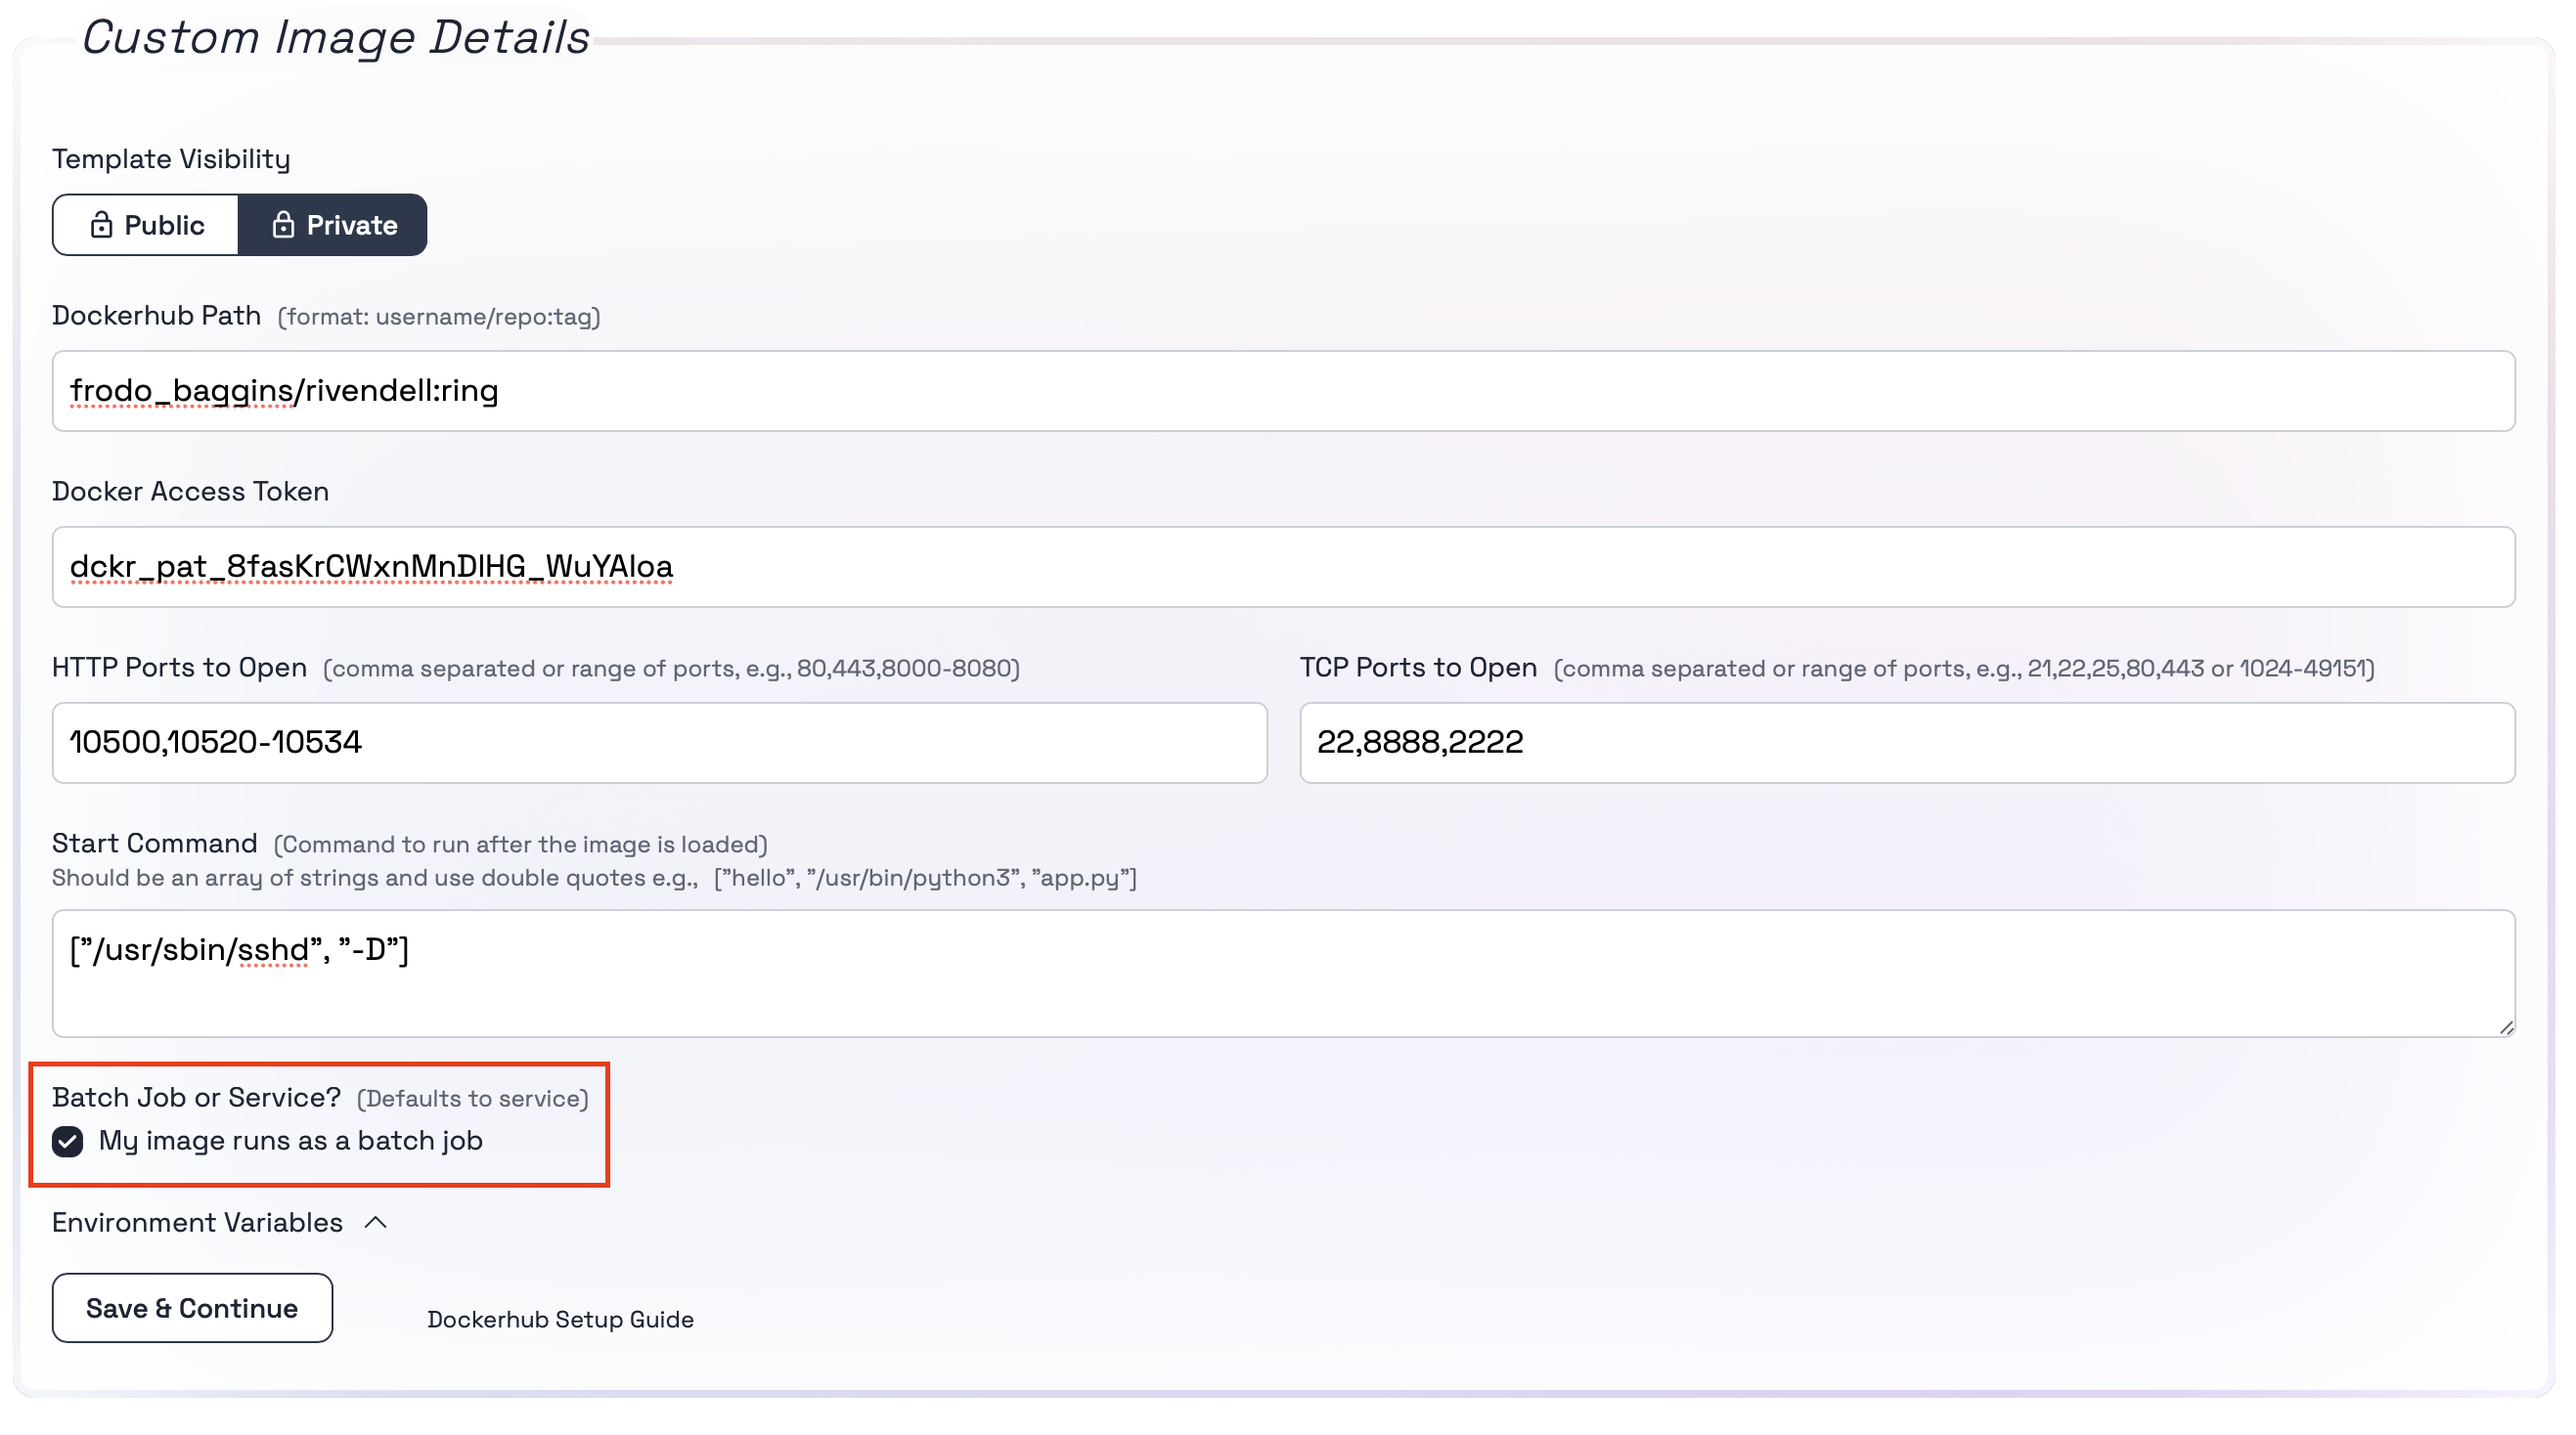
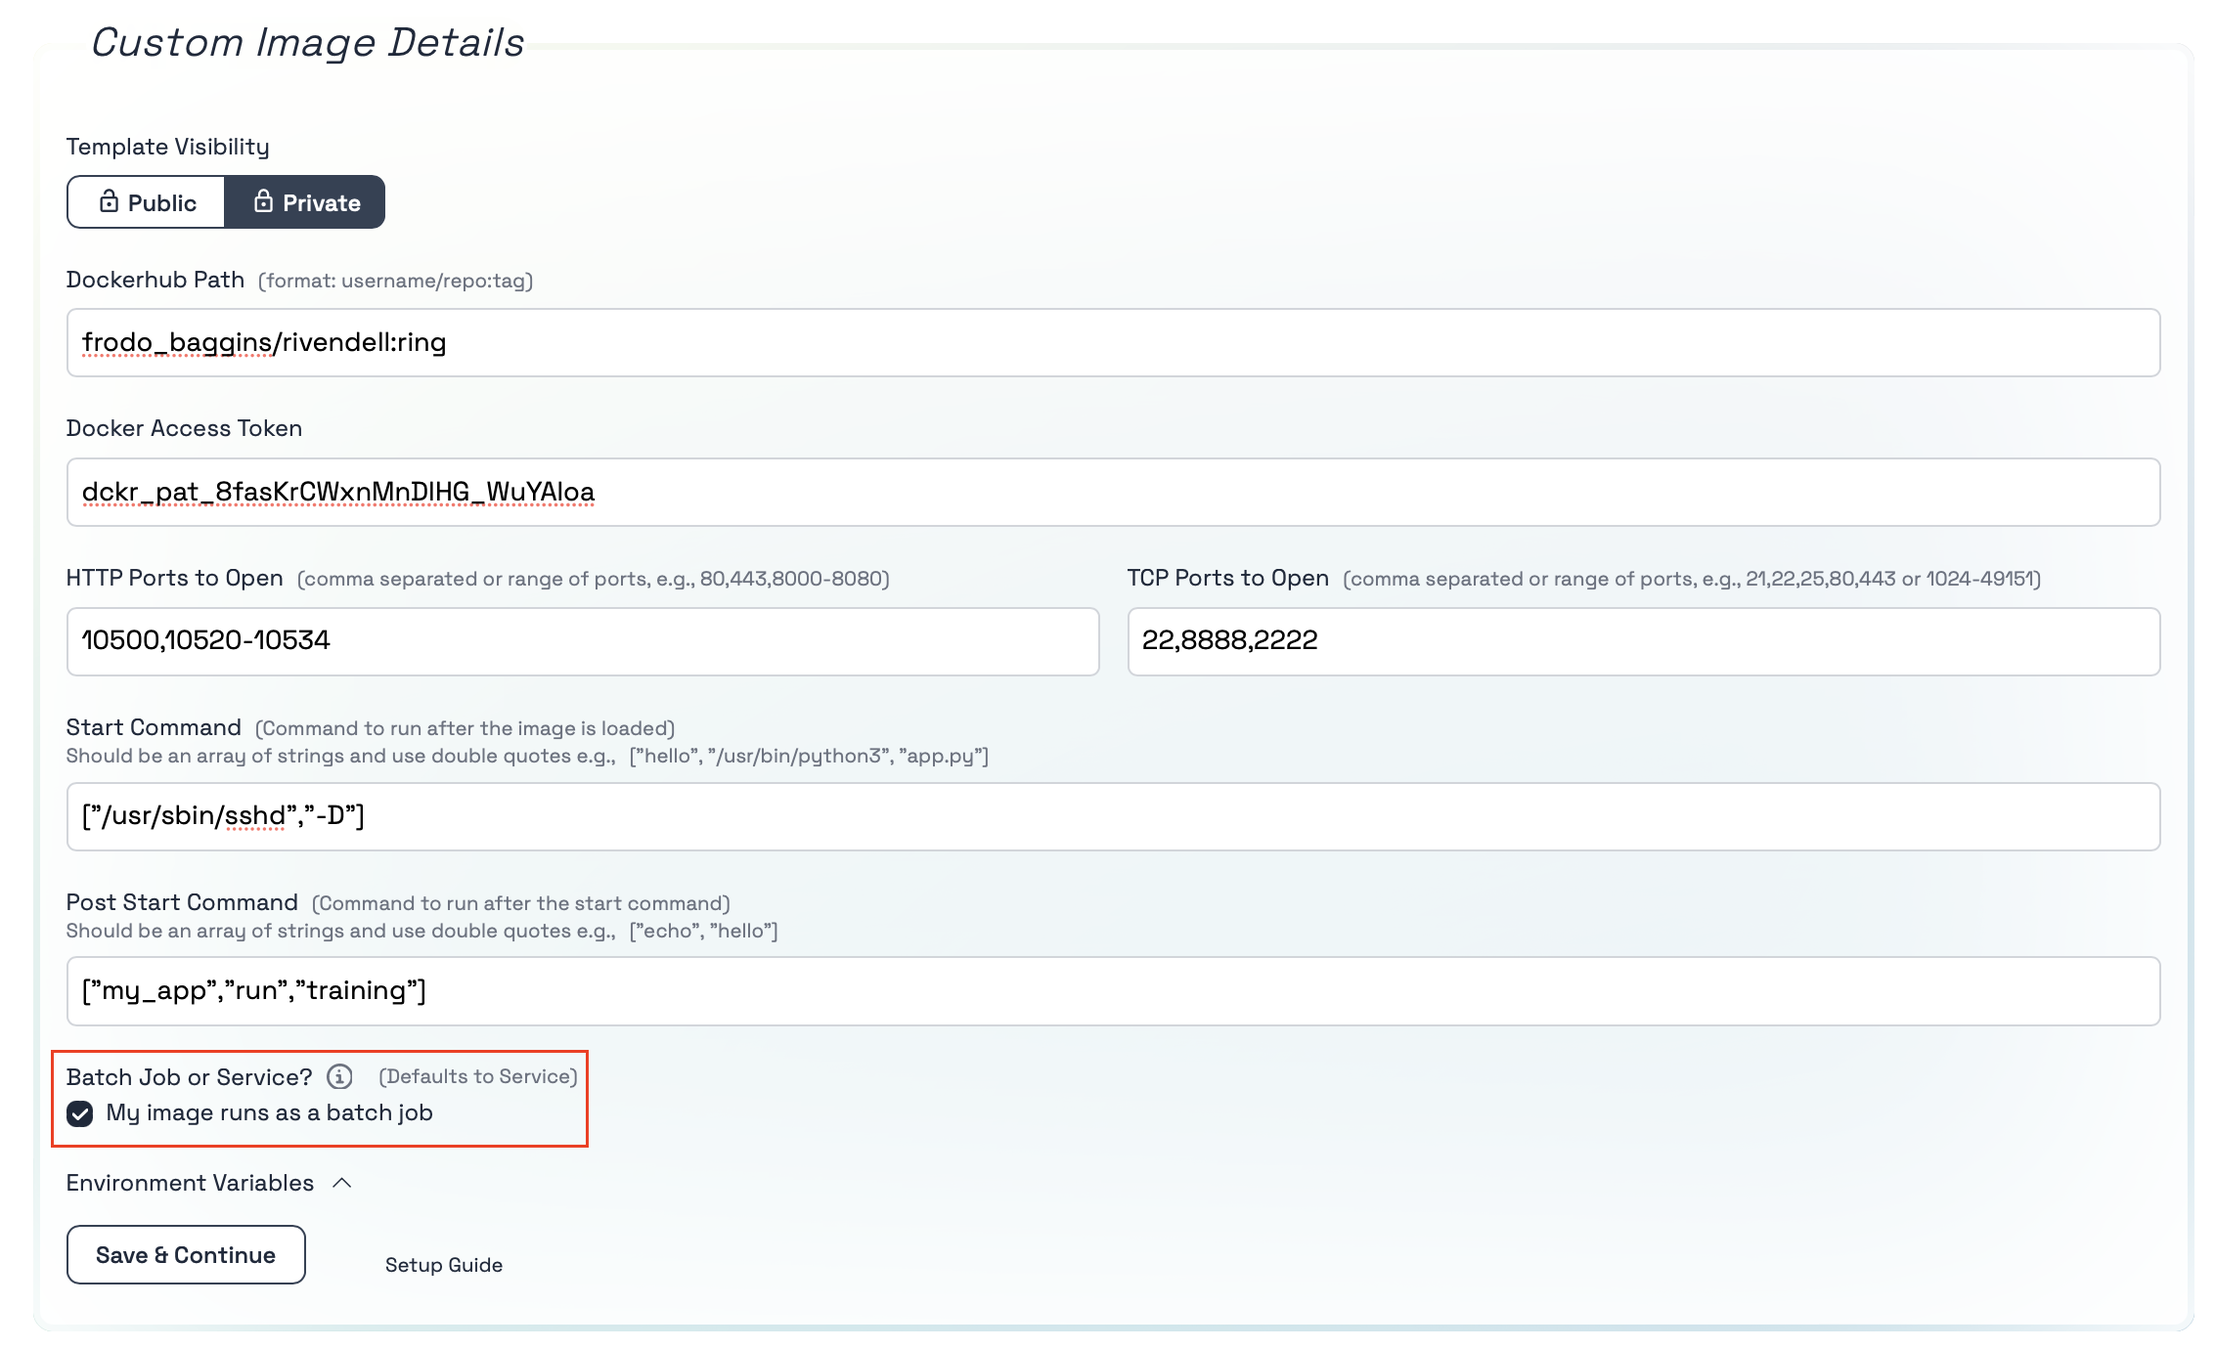
add post start command description and picture

diff --git a/custom_image/custom_image.md b/custom_image/custom_image.md
@@ -33,13 +33,21 @@ To open ports for your container you can enter your desired TCP or HTTP ports in
 ![ports_selection](./pictures/ports_selection.png)
 
 
-## How to define your star command:
+## How to define your Docker star command:
 
 
-It is popular with docker containers to define a start-command that starts your application. If you did not define one in your container or you would like to overwrite it, you can define your custom start-command in the __Start Command__ field. Similarly to Docker containers, we require you to define your start-command as an array of string separated by commas, e.g. ["/usr/sbin/sshd", "-D"] .
+It is popular with docker containers to define a start-command that starts your application. If you did not define one in your container or you would like to overwrite it, you can define your custom start-command in the __Start Command__ field. Similarly to Docker containers, we require you to define your Docker start-command as an array of string separated by commas, e.g. ["/usr/sbin/sshd", "-D"] . __Important__ : this start-command overwrites the one defined in your Docker file so make sure that is what you want to and the command is correct before you use it.
 
 
 ![start_command](./pictures/start_command.png)
+
+
+## Add your post start command:
+
+If you would like to execute other commands or setups after your Docker start command, for example you are using a public image which you do not know the Docker start command of and want to start a server after the container has started, then you can use the post-start command. This command is executed in the command line right after your container started and executed its Docker start-command. 
+
+
+![post_start_command](./pictures/post_start_command.png)
 
 
 ## How to have ssh access to your instance
